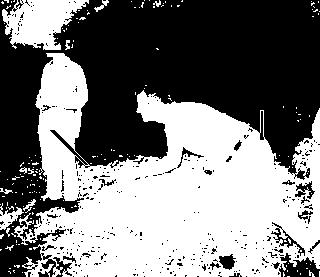
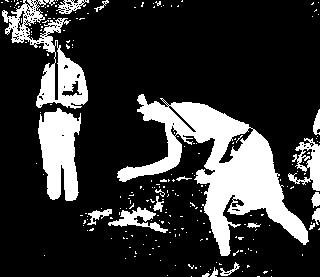
Tests added

diff --git a/segmentation-tests/test.py b/segmentation-tests/test.py
@@ -6,65 +6,14 @@ import matplotlib.image as mpimg
 from Dinic import Graph
 from PIL import Image
 from image2graph import image2graph
+from scribbles import scribbles
 import os
-
-
-def generate_rect(corner, h, w):
-    rect = []
-    for i in range(h):
-        for j in range(w):
-            rect.append((corner[0]+i, corner[1]+j))
-    return rect
-
-
-def generate_interval(a, b, fat=1):
-    x0, y0 = a[0], a[1]
-    x1, y1 = b[0], b[1]
-    interval = []
-    deltax = abs(x1 - x0)
-    deltay = abs(y1 - y0)
-    error = 0
-    deltaerr = (deltay + 1)
-    y = y0
-    diry = y1 - y0
-    if diry > 0:
-        diry = 1
-    if diry < 0:
-        diry = -1
-    for x in range(x0, x1+1):
-        for j in range(fat):
-            interval.append((x, y+j))
-        error = error + deltaerr
-        if error >= (deltax + 1):
-            y = y + diry
-            error = error - (deltax + 1)
-    return interval
-
-
-def generate_scribbles_0_3():
-    obj = generate_interval((130, 50), (165, 200), 5)
-    obj += generate_rect((110, 260), 30, 4)
-    bkg = generate_rect((50, 10), 3, 115)
-    return obj, bkg
-
-
-def generate_scribbles_4_4():
-    obj = generate_interval((130, 50), (165, 200), 5)
-    obj += generate_rect((110, 260), 30, 4)
-    bkg = generate_rect((50, 10), 3, 115)
-    return obj, bkg
 
 
 def make_pixels(index, image_url):
     img = mpimg.imread('../images-320/' + image_url)
     img_shape = img.shape
-    obj_scribble, bkg_scribble = [], []
-    if 0 <= index <= 3:
-        obj_scribble, bkg_scribble = generate_scribbles_0_3()
-    elif index:
-        obj_scribble, bkg_scribble = generate_scribbles_4_4()
-    else:
-        obj_scribble, bkg_scribble = generate_scribbles_4_4()
+    obj_scribble, bkg_scribble = scribbles[index]()
     underlying_graph = image2graph(img, obj_scribble, bkg_scribble)
     start = time.time()
     flow = underlying_graph.dinic()
@@ -80,6 +29,21 @@ def make_pixels(index, image_url):
         if val:
             bin_img.putpixel((i % img_shape[1], i // img_shape[1]), 1)
     bin_img.save('../images-segments-prediction-320/' + image_url, 'JPEG')
+
+
+def solo_test(index):
+    directory = '../images-320'
+    images = os.listdir(directory)
+    images.sort()
+    image_url = images[index]
+    make_pixels(index, image_url)
+    true_segments = mpimg.imread('../image-segments-320/' + image_url.split('-')[0] + '-320.jpg')
+    predicted_segments = mpimg.imread('../images-segments-prediction-320/' + image_url)
+    true_segments = true_segments[:, :, :1].flatten().reshape(predicted_segments.shape)
+    correct_pixels, Jaccard = analyze(true_segments, predicted_segments)
+    print('Правильно угаданных пикселей: ', correct_pixels)
+    print('Мера Жаккара: ', Jaccard)
+    print('--------------------------------------------------------')
 
 
 def analyze(true_segments, predicted_segments):
@@ -115,4 +79,5 @@ def analyze_all():
         print('--------------------------------------------------------')
 
 
-analyze_all()
+# analyze_all()
+solo_test(5)

diff --git a/scribbles.py b/scribbles.py
@@ -1,0 +1,56 @@
+def generate_rect(corner, h, w):
+    rect = []
+    for i in range(h):
+        for j in range(w):
+            rect.append((corner[0]+i, corner[1]+j))
+    return rect
+
+
+def generate_interval(a, b, fat=1):
+    x0, y0 = a[0], a[1]
+    x1, y1 = b[0], b[1]
+    interval = []
+    deltax = abs(x1 - x0)
+    deltay = abs(y1 - y0)
+    error = 0
+    deltaerr = (deltay + 1)
+    y = y0
+    diry = y1 - y0
+    if diry > 0:
+        diry = 1
+    if diry < 0:
+        diry = -1
+    for x in range(x0, x1+1):
+        for j in range(fat):
+            interval.append((x, y+j))
+        error = error + deltaerr
+        if error >= (deltax + 1):
+            y = y + diry
+            error = error - (deltax + 1)
+    return interval
+
+
+def generate_scribbles_0_3():
+    obj = generate_interval((130, 50), (165, 200), 5)
+    obj += generate_rect((110, 260), 30, 4)
+    bkg = generate_rect((50, 10), 3, 115)
+    return obj, bkg
+
+
+def generate_scribbles_4():
+    obj = generate_rect((40, 55), 60, 3)
+    obj += generate_interval((98, 160), (131, 212), 3)
+    bkg = generate_rect((14, 47), 4, 69)
+    bkg += generate_rect((240, 78), 4, 69)
+    return obj, bkg
+
+def generate_scribbles_5():
+    obj = generate_rect((40, 55), 60, 3)
+    obj += generate_interval((98, 160), (131, 212), 3)
+    bkg = generate_rect((14, 47), 4, 69)
+    bkg += generate_rect((240, 78), 4, 69)
+    return obj, bkg
+
+
+scribbles = [generate_scribbles_0_3, generate_scribbles_0_3, generate_scribbles_0_3, generate_scribbles_0_3,
+             generate_scribbles_4, generate_scribbles_5]
